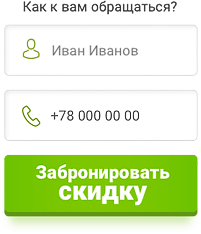
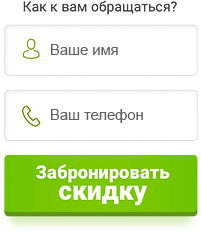
fix scroll

Changed region(s): [[0.2388, 0.4487, 0.7164, 0.5385], [0.2388, 0.1795, 0.6866, 0.2393]]

diff --git a/source/template/common/header.html b/source/template/common/header.html
@@ -9,7 +9,7 @@
                     <img src="img/header__top-1.svg" alt="icon" class="header__itm--ico">
                     <span>
                         <a href="#technology" class="header__itm--link">
-                        Технология <span class="text__blue">Pfaizer, Inc.</span> – лидера <br>
+                        Технология <span class="text__blue header__itm--b">Pfaizer, Inc.</span> – лидера <br>
                         фармакологической сферы
                     </a>
                     </span>
@@ -18,7 +18,7 @@
                     <img src="img/header__top-2.svg" alt="icon" class="header__itm--ico">
                     <span>
                         <a href="#recommendation" class="header__itm--link">
-                        <span class="text__blue">№1</span> рекомендация американских <br>
+                        <span class="text__blue header__itm--b">№1</span> рекомендация американских <br>
                         и&nbsp;российских эндокринологов
                     </a>
                     </span>
@@ -27,7 +27,7 @@
                     <img src="img/header__top-3.svg" alt="icon" class="header__itm--ico">
                     <span>
                         <a href="#review" class="header__itm--link">
-                        Более <span class="text__blue">17 300</span> довольных <br>
+                        Более <span class="text__blue header__itm--b">17 300</span> довольных <br>
                         покупателей за 2018 год
                     </a>
                     </span>
@@ -114,11 +114,11 @@
                         </h3>
                         <div class="form__field form__field--name">
                             <input type="text" class="form__field--input" name="name" required autocomplete="name"
-                                   placeholder="Иван Иванов">
+                                   placeholder="Ваше имя">
                         </div>
                         <div class="form__field form__field--tel">
                             <input type="tel" class="form__field--input" name="phone" required autocomplete="tel"
-                                   placeholder="+78 000 00 00">
+                                   placeholder="Ваш телефон">
                         </div>
                         <button class="btn">
                             <span class="btn__text-f">
@@ -138,7 +138,7 @@
                     <p class="form__delivery">
                         <img src="img/delivery.svg" alt="car" class="form__delivery--img">
                         <span class="form__delivery--text">
-                            Бесплатная доставка
+                            Быстрая доставка
                         </span>
                     </p>
                 </form>

diff --git a/source/template/common/popup.html b/source/template/common/popup.html
@@ -54,11 +54,11 @@
                         </h3>
                         <div class="form__field form__field--name">
                             <input type="text" class="form__field--input" name="name" required autocomplete="name"
-                                   placeholder="Иван Иванов">
+                                   placeholder="Ваше имя">
                         </div>
                         <div class="form__field form__field--tel">
                             <input type="tel" class="form__field--input" name="phone" required autocomplete="tel"
-                                   placeholder="+78 000 00 00">
+                                   placeholder="Ваш телефон">
                         </div>
                         <button class="btn">
                             <span class="btn__text-f">
@@ -78,7 +78,7 @@
                     <p class="form__delivery">
                         <img src="img/delivery.svg" alt="car" class="form__delivery--img">
                         <span class="form__delivery--text">
-                            Бесплатная доставка
+                            Быстрая доставка
                         </span>
                     </p>
                 </form>

diff --git a/source/style/common/header.scss b/source/style/common/header.scss
@@ -40,6 +40,9 @@
     &:last-child {
       margin-right: 0;
     }
+    &--b {
+      font-weight: 500;
+    }
     &--ico {
       flex-shrink: 0;
       margin-right: 21px;
@@ -293,8 +296,7 @@
 @media screen and (max-width: 767px) {
   .header {
     &__nav {
-      flex-wrap: wrap;
-      justify-content: space-around;
+      display: none;
     }
     &__itm {
       width: 300px;
@@ -308,11 +310,13 @@
       }
     }
     &__content {
-      background-image: none;
+      padding-top: 10px;
+      background-size: 500px;
+      background-position: right 115px bottom -60px;
     }
     &__prod {
       display: flex;
-      align-items: center;
+      align-items: flex-end;
       justify-content: center;
       &--big {
         position: static;
@@ -332,10 +336,9 @@
 @media screen and (max-width: 639px) {
   .header {
     padding-top: 10px;
-    &__nav {
-      display: none;
-    }
+
     &__content {
+      background-image: none;
       padding-top: 0px;
       justify-content: space-around;
     }

diff --git a/source/template/common/footer.html b/source/template/common/footer.html
@@ -19,7 +19,7 @@
                 </div>
             </div>
             <div class="footer__center">
-                <a href="privacy.html" class="footer__privacy" target="_blank">Политика конфиденциальности</a>
+                <a href="/privacy.html" class="footer__privacy" target="_blank">Политика конфиденциальности</a>
                 <p class="footer__adress">ООО "Восток" г. Москва, ул. Чоботовская, д.17</p>
             </div>
             <div class="footer__right">

diff --git a/source/js/app.js b/source/js/app.js
@@ -291,12 +291,12 @@ $(document).ready(function() {
              $(".review-content").mCustomScrollbar({
             callbacks:{
     onScrollStart:function(){
-      $('.review-btn__list').addClass('all-rev-none')
+
     }
 }
         });
         }else{
-           $('.review-content').mCustomScrollbar("disable"); 
+           $('.review-content').mCustomScrollbar("disable", true);
         }
     }).trigger("resize");
 })(jQuery);

diff --git a/source/style/common/popup.scss b/source/style/common/popup.scss
@@ -100,6 +100,7 @@
     &__text {
       margin-top: 20px;
       margin-left: 20px;
+
       &--logo {
         font-size: 44px;
         line-height: 1;
@@ -125,7 +126,7 @@
         bottom: 20px;
       }
       &--girl {
-        display: none;
+        height: 484px;
       }
     }
   }

diff --git a/source/template/common/consist.html b/source/template/common/consist.html
@@ -1,4 +1,3 @@
-<link rel="stylesheet" href="../../../../../2103/20Flex/build/css/main.css">
 <section class="section consist bg__grey" id="consist">
     <div class="wrapper">
         <div class="arrow arrow--white">
